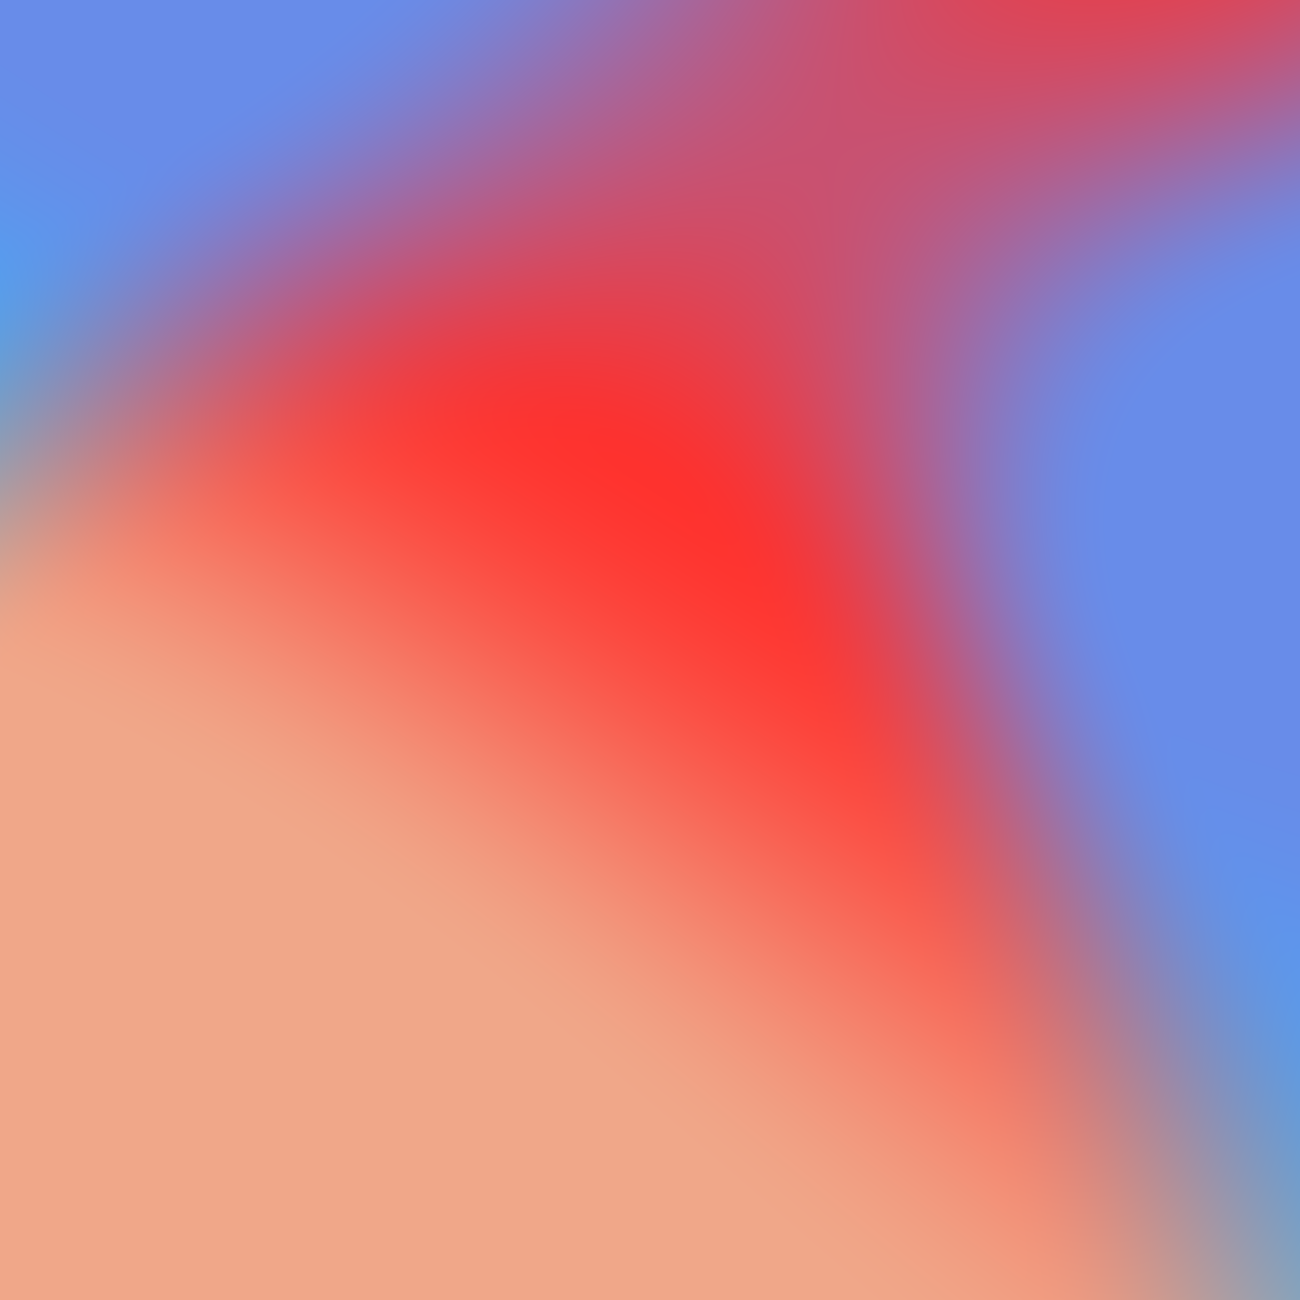
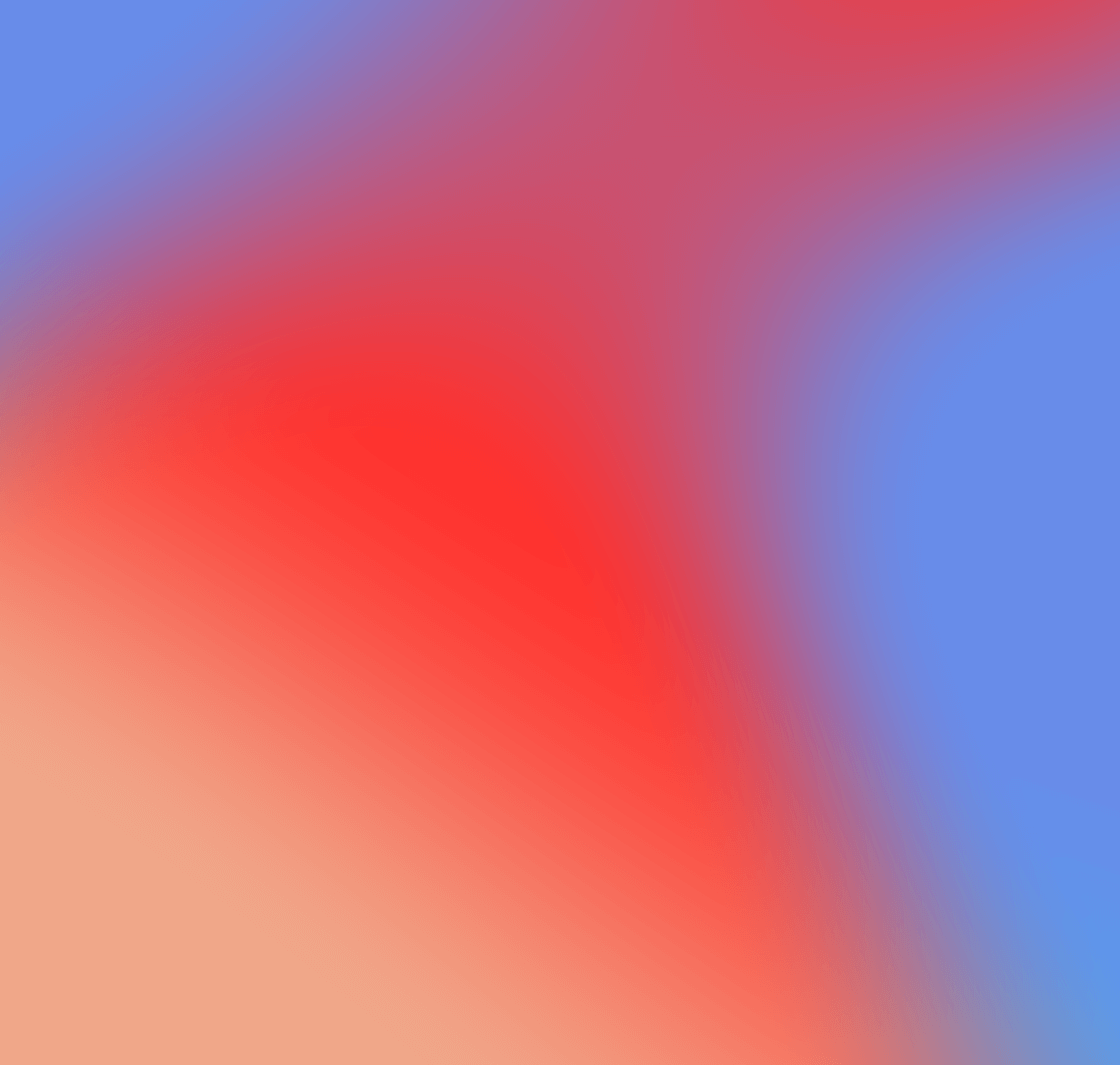
gradient upgrade
- added moving gradient
- Optimized images on home page
- stopped scroll on load
- fixed footer across project pages

diff --git a/style.css b/style.css
@@ -158,23 +158,27 @@ a {
 
 #gradient {
     position: fixed;
-    top: 0px;
-    left: 0;
+    top: -25vw;
+    left: -25vw;
     z-index: -2;
-    width: 100%;
-    height: 120vh;
+    width: 150vw;
+    height: 150vw;
+    transform: scale(0.7);
 
     background-image: url('assets/mesh-gradient.png');
     background-color: rgba(255, 255, 255, 0.30);
     background-blend-mode: lighten;
     background-size: cover;
 
-    animation: gradientanim 1s linear;
-    animation-play-state: paused;
-    animation-delay: calc(var(--scroll) * -2s);
-
-    animation-iteration-count: 1;
+    animation: spin 14s linear infinite;
     animation-fill-mode: both;
+}
+
+canvas {
+    display: block;
+    width: 100%;
+    height: 100%;
+    transform: scale(2);
 }
 
 #work {
@@ -867,6 +871,11 @@ a {
           top: -120px;
       }
   }
+
+  @keyframes spin{
+	from{transform:rotate(0deg)}
+	to{transform:rotate(360deg)}	
+    }
 
   @keyframes arrow1rotate {
       to {

diff --git a/index.html b/index.html
@@ -12,7 +12,7 @@
   </head>
   <body>
     <script src="script.js"></script>
-    <div id="gradient"></div>
+    <div id="gradient"><canvas width="2" height="2"></canvas></div>
     <div id="head">
       <div id="navbar">
         <div id="nav-left"><a class="cool-link" href="">Fin Taylor</a></div>
@@ -97,10 +97,12 @@
       </div>
     </div>
     <script>
+      $("body").css("overflow", "hidden");
       $(window).on('load', function () {
         $('#loading').fadeOut(300);
         $('#loading-image').animate({height: '+=40px', width: '+=40px'},300);
-      }) 
+        $("body").css("overflow", "scroll");
+      })
     </script>
   </body>
   <div id="loading">

diff --git a/taylored.html b/taylored.html
@@ -67,7 +67,7 @@
       <div><p id="project-next-small">Next Project</p><p id="project-next-big"><a class="cool-link" href="badcalculator">Bad Calculator ➔</a></p></div>
     </div>
     <div id="footer">
-      <div id="footer-left">Made with ❤ in SF</div>
+      <div id="footer-left">©Fin Taylor - SF & ATL</div>
       <div id="footer-right">
         <a class="footer-link" href="https://drive.google.com/file/d/1BGRWP-SYUJ5Dv1_pf_pJwpD63LZR4PYI/view?usp=sharing" title="Resume" target="_blank">
           <div class="footer-item cool-link" id="resume-button">Resume</div>

diff --git a/dailyui.html b/dailyui.html
@@ -55,7 +55,7 @@
       <div><p id="project-next-small">Next Project</p><p id="project-next-big"><a class="cool-link" href="debateapp">Debate App ➔</a></p></div>
     </div>
     <div id="footer">
-      <div id="footer-left">Made with ❤ in SF</div>
+      <div id="footer-left">©Fin Taylor - SF & ATL</div>
       <div id="footer-right">
         <a class="footer-link" href="https://drive.google.com/file/d/1BGRWP-SYUJ5Dv1_pf_pJwpD63LZR4PYI/view?usp=sharing" title="Resume" target="_blank">
           <div class="footer-item cool-link" id="resume-button">Resume</div>

diff --git a/debateapp.html b/debateapp.html
@@ -102,7 +102,7 @@
       <div><p id="project-next-small">Next Project</p><p id="project-next-big"><a class="cool-link" href="uniquick">Uniquick ➔</a></p></div>
     </div>
     <div id="footer">
-      <div id="footer-left">Made with ❤ in SF</div>
+      <div id="footer-left">©Fin Taylor - SF & ATL</div>
       <div id="footer-right">
         <a class="footer-link" href="https://drive.google.com/file/d/1BGRWP-SYUJ5Dv1_pf_pJwpD63LZR4PYI/view?usp=sharing" title="Resume" target="_blank">
           <div class="footer-item cool-link" id="resume-button">Resume</div>

diff --git a/uniquick.html b/uniquick.html
@@ -106,7 +106,7 @@
       <div><p id="project-next-small">Next Project</p><p id="project-next-big"><a class="cool-link" href="taylored">Taylored ➔</a></p></div>
     </div>
     <div id="footer">
-      <div id="footer-left">Made with ❤ in SF</div>
+      <div id="footer-left">©Fin Taylor - SF & ATL</div>
       <div id="footer-right">
         <a class="footer-link" href="https://drive.google.com/file/d/1BGRWP-SYUJ5Dv1_pf_pJwpD63LZR4PYI/view?usp=sharing" title="Resume" target="_blank">
           <div class="footer-item cool-link" id="resume-button">Resume</div>

diff --git a/badcalculator.html b/badcalculator.html
@@ -83,7 +83,7 @@
       <div><p id="project-next-small">Next Project</p><p id="project-next-big"><a class="cool-link" href="dailyui">Daily UI ➔</a></p></div>
     </div>
     <div id="footer">
-      <div id="footer-left">Made with ❤ in SF</div>
+      <div id="footer-left">©Fin Taylor - SF & ATL</div>
       <div id="footer-right">
         <a class="footer-link" href="https://drive.google.com/file/d/1BGRWP-SYUJ5Dv1_pf_pJwpD63LZR4PYI/view?usp=sharing" title="Resume" target="_blank">
           <div class="footer-item cool-link" id="resume-button">Resume</div>

diff --git a/script.js b/script.js
@@ -21,8 +21,6 @@
 
 var leftgear = document.getElementById("leftgear"),
 rightgear = document.getElementById("rightgear");
-    
-// to use the script *without* anti-jank, set the event to "scroll" and remove the anonymous function.
 
 window.addEventListener("optimizedScroll", function() {
   document.body.style.setProperty('--scroll',window.pageYOffset / (document.body.offsetHeight - window.innerHeight));
